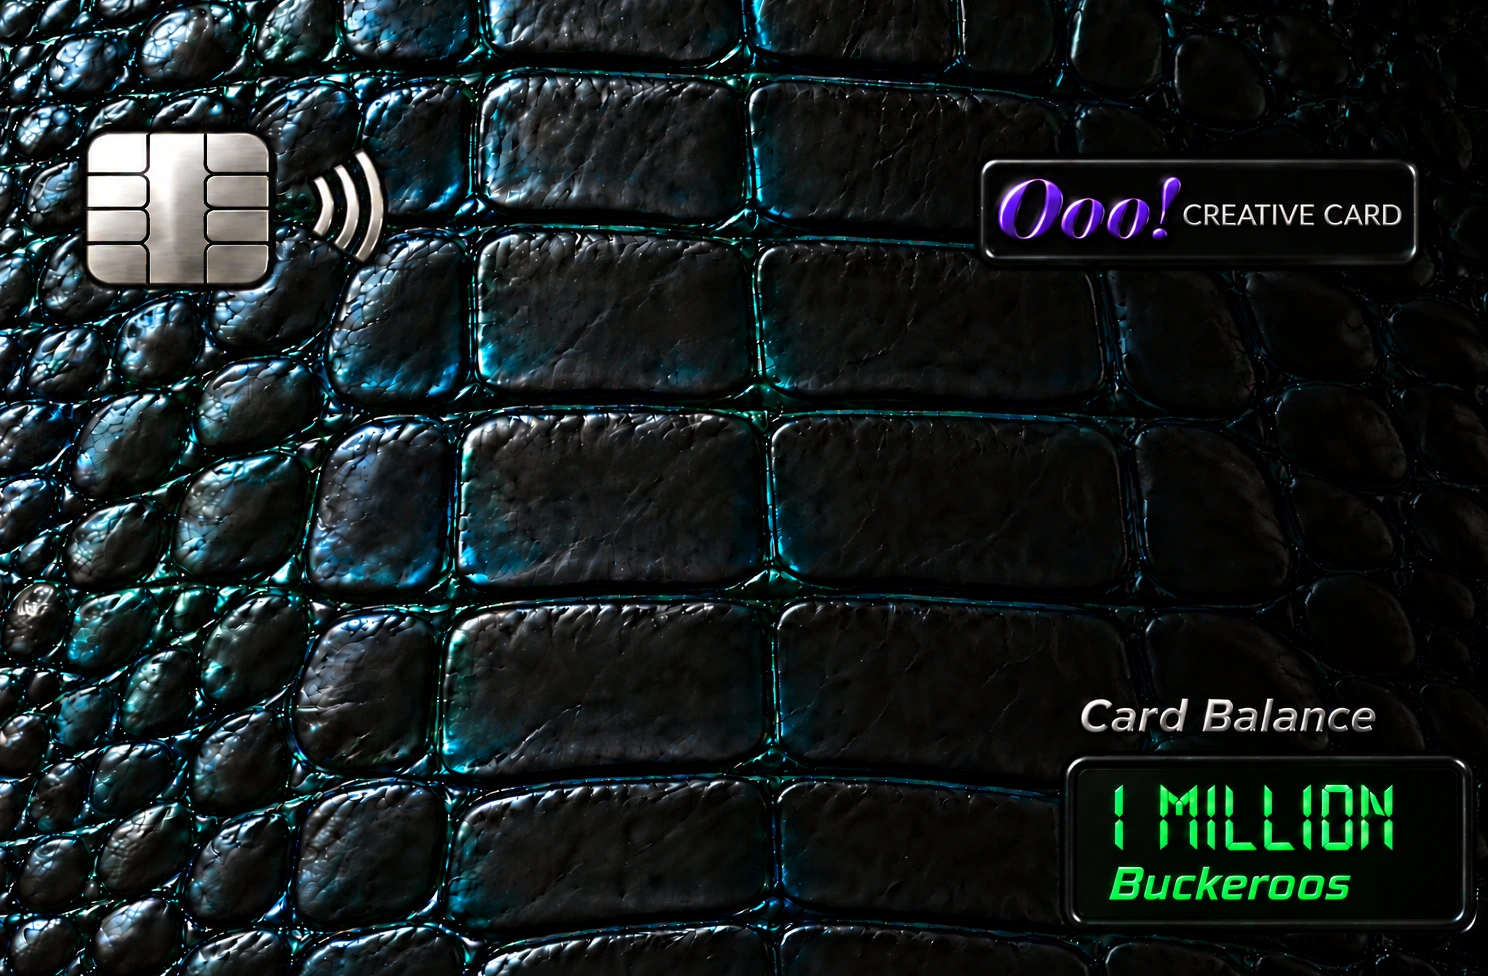
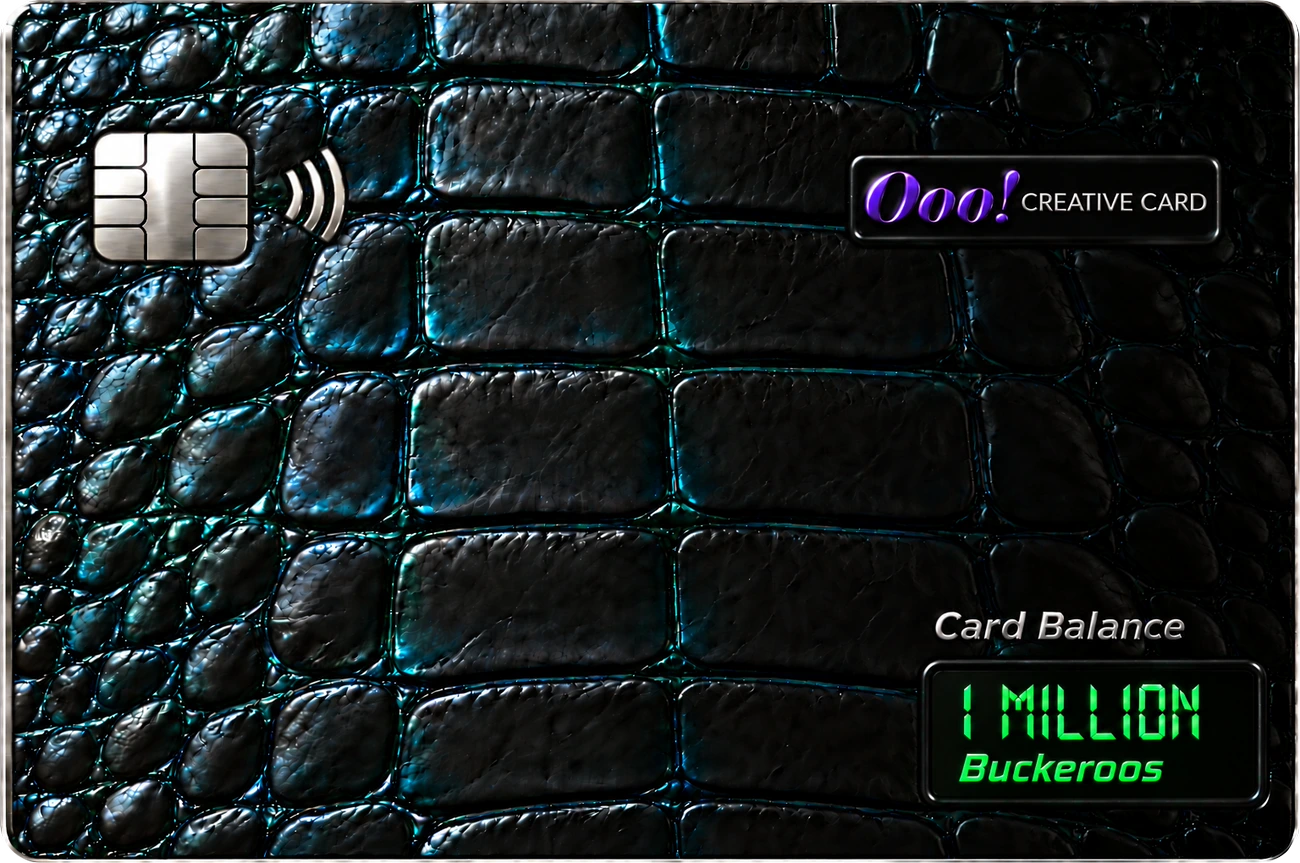
MIC hero: the card shows its own brim; near-black sun; words in a space
The card sits in the pit whole, silver brim and rounded corners
(transparent in the web copy), on its own layer with a drop shadow, so
the gold lip frames the container, not the card, and the pit's shading
falls on the floor round it. The sun's inside goes near black at 90%
(Midnight Black read as grape); the words move one space forward.

diff --git a/src/styles/mic.css b/src/styles/mic.css
@@ -73,13 +73,13 @@
    shade (bottom right) raise it, and the inset shade and light sink
    everything inside it, so the rim rolls down into the pit like a
    halfpipe. The laser-gold line runs round the pit's lip.
-   The pit is lined with Greg's Ooo! Creative Card (FINAL, 2026-10-26;
-   master in public/mic, its silver rim trimmed since the gold lip frames
-   it), its chip top left, its name plate top right and its live balance
-   display bottom right. Only the dark inset shade sits over the card, at
-   the top and left: the inner light that once lit the bottom right edge
-   veiled the display, so it is gone (Greg: the screen looked faded).
-   On a phone the pad keeps the card's own 3:2 shape, so all of it shows. */
+   Greg's Ooo! Creative Card (FINAL, 2026-10-26; master in public/mic)
+   sits in the pit as an object (::after), whole, with its own silver brim
+   and rounded corners (cut to transparency in the web copy), a drop
+   shadow setting it down on the pit floor. The gold lip frames the
+   container, not the card. The pit's inset shade falls on the floor round
+   the card, never over it, so the balance display stays at full strength.
+   On a phone the pad keeps the card's own 3:2 shape. */
 .mic-hero__words {
   --mic-pad-gap: 16px;
   position: relative;
@@ -87,8 +87,7 @@
   align-self: stretch; margin: 0 max(var(--mic-pad-gap), calc((100% - 560px) / 2)); padding: 0 0 0 clamp(6px, 1.4vw, 20px);
   aspect-ratio: 3 / 2;
   border: 0.5rem solid transparent; border-radius: 1.25rem;
-  background: url("/assets/brand/ooo-creative-card.webp?v=2") center / cover no-repeat;
-  background-origin: padding-box; background-clip: padding-box;
+  background: none;
   box-shadow:
     -0.7rem -0.7rem 1.4rem rgba(170, 130, 255, 0.17),
     0.75rem 0.75rem 1.5rem rgba(0, 0, 0, 0.95),
@@ -102,11 +101,18 @@
   border: 2px solid #F0C040;
   box-shadow: 0 0 8px rgba(240, 192, 64, 0.75), 0 0 20px rgba(240, 192, 64, 0.28), inset 0 0 6px rgba(240, 192, 64, 0.3);
 }
+/* the card, inset from the lip so its brim and the pit floor both show */
+.mic-hero__words::after {
+  content: ""; position: absolute; z-index: 0; inset: clamp(8px, 1.2vw, 16px); pointer-events: none;
+  background: url("/assets/brand/ooo-creative-card.webp?v=3") center / contain no-repeat;
+  filter: drop-shadow(0 8px 14px rgba(0, 0, 0, 0.75)) drop-shadow(0 2px 3px rgba(0, 0, 0, 0.6));
+}
 /* The rising sun (Greg, 2026-10-26): a circle in the same laser gold,
    rising from the card's bottom edge just past halfway, a little more than
-   half of it showing. Inside, Midnight Black (#0F031C) at 80%, so the card
-   shows through darkened; the line is laser cut, crisp inside, glowing
-   outside. Sized in the words' own em so the text keeps its size and room:
+   half of it showing. Inside, near black at 90% (Greg: Midnight Black
+   read as grape), so the card shows through only faintly; the line is
+   laser cut, crisp inside, glowing outside. The words sit one space in
+   from where they were (Greg, 2026-10-26). Sized in the words' own em so the text keeps its size and room:
    11.6em across, 6.8em of it risen, the centre 1em above the edge, its
    right side ending short of the balance display; the box
    is 12px larger all round than the circle so the glow has room. */
@@ -114,9 +120,9 @@
   position: relative; z-index: 1;
   display: flex; flex-direction: column; justify-content: flex-end; align-items: flex-start; gap: 0.08em;
   width: calc(11.6em + 24px); height: calc(6.8em + 12px); flex: none; box-sizing: border-box;
-  margin-left: -12px; padding: 0 0 0.6em calc(1.35em + 12px);
+  margin-left: -12px; padding: 0 0 0.6em calc(1.8em + 12px);
   background: radial-gradient(circle calc(5.8em + 14px) at 50% calc(5.8em + 12px),
-    rgba(15, 3, 28, 0.8) 0, rgba(15, 3, 28, 0.8) calc(5.8em - 2px),
+    rgba(3, 1, 8, 0.9) 0, rgba(3, 1, 8, 0.9) calc(5.8em - 2px),
     #F0C040 calc(5.8em - 1.5px), #F0C040 calc(5.8em + 0.5px),
     rgba(240, 192, 64, 0.45) calc(5.8em + 1.5px), rgba(240, 192, 64, 0.16) calc(5.8em + 5px), rgba(240, 192, 64, 0) calc(5.8em + 12px));
 }
